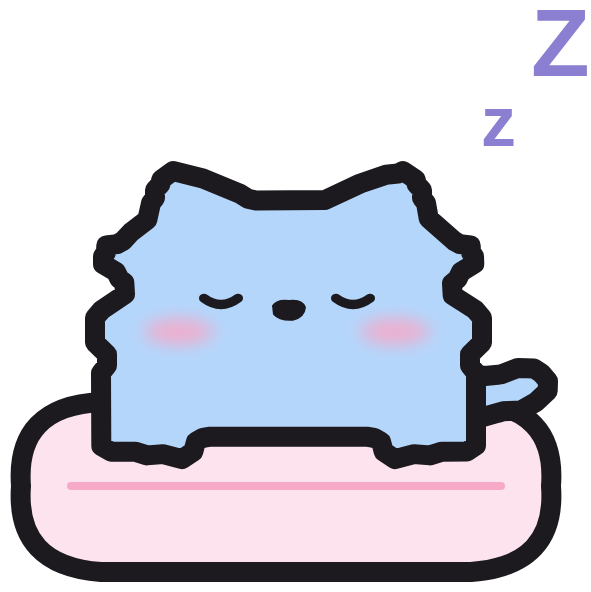
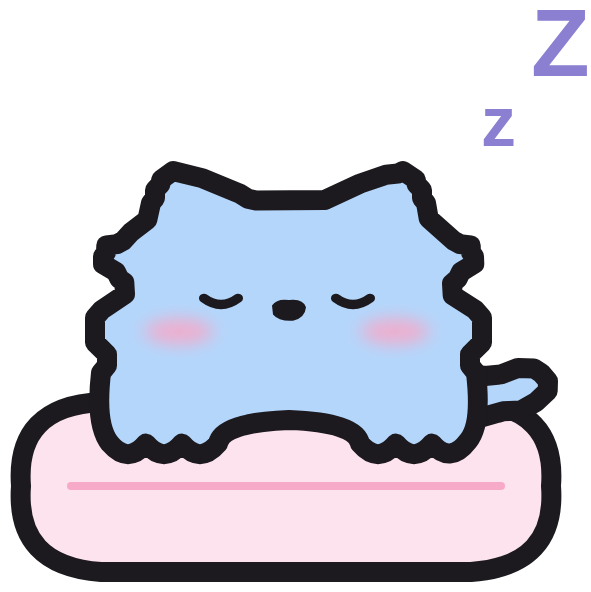
Életcsík 3 szívvel, cicalábak az új képeken
- 3 szív: éhség, alvás, játék. Ha egy igény sokáig nincs kielégítve, a szív
  kiürül, és egy kis ikon mutatja, mi kell. Ha mindhárom tele, konfetti.
- Az idők a beallitasok.js-ben állíthatók (alapból 5, 10 és 4 óra).
- A rajzolt cicák alja kerek lábakra cserélve, három ujjal, köztük ívvel.

Claude-Session: https://claude.ai/code/session_0147rMSUhfh921N6BdCdXTQF

Changed region(s): [[0.1523, 0.6689, 0.8223, 0.7905], [0.7614, 0.6689, 0.7919, 0.6993], [0.1827, 0.6689, 0.2132, 0.6993]]

diff --git a/app.js b/app.js
@@ -63,6 +63,8 @@
         etetes: ["Nyam-nyam! 🐟", "Már nem vagyok éhes! 😋", "Köszi a halat, {nev}! 🐟💖"],
         tele: ["Már nem vagyok éhes! 🐟", "Most nem fér több belém 😅", "Majd később, jó? 🐟"],
         jatek: ["Elkapom! 🧶", "Hihi, megvan! 😹", "Még egyszer! 🧶✨"],
+        jatszani: ["játszunk? 🧶🥺", "unatkozom... 🧶", "{nev}, játszol velem? 🥺🧶", "gombolyag? 👉👈"],
+        tele3: ["Minden szívecske tele! 💖💖💖", "Teli szívvel szeretlek, {nev}! 💖", "Három szív, egy boldog cica! 😻"],
         szeretet: ["Én is szeretlek, {nev}! ❤", "Szeretet-roham! ❤🔥", "Ez kellett! Szeretlek! 💖"],
         elsoSimi: "Simogass meg: húzd rajtam az ujjad! 👆"
     };
@@ -75,6 +77,7 @@
     const KULCS = "kekcica.allapot.v2";
     const ORA = 3600 * 1000;
     let A = betolt();
+    ["utolsoEtetes", "utolsoAlvas", "utolsoJatek"].forEach((m) => { if (!A[m]) A[m] = Date.now(); });
 
     function betolt() {
         try { return Object.assign(alapAllapot(), JSON.parse(localStorage.getItem(KULCS) || "{}")); }
@@ -91,6 +94,8 @@
             hang: true,
             altatva: 0,
             utolsoEtetes: 0,
+            utolsoAlvas: 0,
+            utolsoJatek: 0,
             simiOsszes: 0,
             unnepeltNap: null
         };
@@ -373,14 +378,61 @@
     function alszik() {
         return !A.boldog && (napszak() === "ejjel" || altatvaVan());
     }
-    const EHSEG = 5 * ORA;
+    // ======================= ÉLETCSÍK (3 szív) =======================
+    // Minden szív egy igény: éhség 🐟, alvás 😴, játék 🧶.
+    // Ha egy igény régóta nincs kielégítve, az a szív kiürül.
+    const IG = Object.assign({ ehes: 5, eepy: 10, jatek: 4 }, B.igenyekOraban || {});
+    const IGENYEK = [
+        { kulcs: "ehes", mezo: "utolsoEtetes", ikon: "🐟", ora: IG.ehes },
+        { kulcs: "eepy", mezo: "utolsoAlvas", ikon: "😴", ora: IG.eepy },
+        { kulcs: "jatek", mezo: "utolsoJatek", ikon: "🧶", ora: IG.jatek }
+    ];
+    function igenyHianyzik(ig) {
+        return most() - (A[ig.mezo] || 0) > ig.ora * ORA;
+    }
+    function hianyzoIgenyek() {
+        return IGENYEK.filter(igenyHianyzik);
+    }
     function ehes() {
-        return most() - (A.utolsoEtetes || 0) > EHSEG;
+        return igenyHianyzik(IGENYEK[0]);
+    }
+    function igenySzoveg(ig) {
+        return randomElem(ig.kulcs === "ehes" ? SZ.ehes : ig.kulcs === "eepy" ? SZ.eepy : SZ.jatszani);
     }
     function szomoruSzoveg() {
         if (alszik()) return randomElem(altatvaVan() ? SZ.eepy : SZ.alszik);
-        if (ehes() && Math.random() < 0.5) return randomElem(SZ.ehes);
+        const h = hianyzoIgenyek();
+        if (h.length && Math.random() < 0.7) return igenySzoveg(randomElem(h));
         return randomElem(SZ.szomoru);
+    }
+
+    let elozoTeli = null;
+    function eletFrissit(unnepelhet) {
+        const sor = $("eletcsik");
+        if (!sor) return;
+        let teli = 0;
+        IGENYEK.forEach((ig, i) => {
+            const el = sor.children[i];
+            const ok = !igenyHianyzik(ig);
+            if (ok) teli++;
+            const volt = el.classList.contains("ures");
+            el.classList.toggle("ures", !ok);
+            if (volt && ok) { el.classList.remove("feltolt"); void el.offsetWidth; el.classList.add("feltolt"); }
+        });
+        if (unnepelhet && elozoTeli !== null && elozoTeli < 3 && teli === 3) {
+            setTimeout(() => {
+                konfetti(45);
+                Hang.miau();
+                mond(randomElem(SZ.tele3));
+            }, 900);
+        }
+        elozoTeli = teli;
+    }
+
+    function igenyTeljesul(mezo) {
+        A[mezo] = most();
+        ment();
+        eletFrissit(true);
     }
 
     function szomoruraValt(szoveg, kep) {
@@ -435,6 +487,7 @@
         }
         if (!szoveg && A.boldog && elteltLatogatas > 3 * ORA) szoveg = "Visszajöttél! 🥰";
 
+        if (alszik()) A.utolsoAlvas = t;
         A.utolsoLatogatas = t;
         ment();
 
@@ -447,6 +500,7 @@
         }
         cetliJelzes();
         egyuttFrissit();
+        eletFrissit(false);
     }
 
     function hianyzasSzoveg(ms) {
@@ -470,8 +524,10 @@
             napszakAlkalmaz();
             if (!A.boldog) szomoruraValt();
         }
+        if (alszik()) { A.utolsoAlvas = most(); ment(); }
         cetliJelzes();
         egyuttFrissit();
+        eletFrissit(false);
     }, 60 * 1000);
 
     document.addEventListener("visibilitychange", () => {
@@ -690,6 +746,7 @@
         A.boldog = false;
         A.altatva = most();
         szomoruraValt(randomElem(SZ.eepy), randomElem(alvoKepek));
+        igenyTeljesul("utolsoAlvas");
     });
 
     // Etetés
@@ -723,8 +780,8 @@
             ugrasAnimacio();
             Hang.nyam();
             rezges(15);
-            A.utolsoEtetes = most();
             boldograValt(randomElem(SZ.etetes), K.hal);
+            igenyTeljesul("utolsoEtetes");
             gomb.disabled = false;
         }, 650);
     });
@@ -744,8 +801,19 @@
             for (let i = 0; i < 3; i++) setTimeout(() => szivecske(), i * 90);
             Hang.miau();
             boldograValt(randomElem(SZ.jatek.slice(1)), K.gombolyag);
+            igenyTeljesul("utolsoJatek");
             gomb.disabled = false;
         }, 1500);
+    });
+
+    // Életcsík: koppintásra elmondja, mi kell neki
+    Array.from($("eletcsik").children).forEach((el, i) => {
+        el.addEventListener("click", () => {
+            const ig = IGENYEK[i];
+            ugrasAnimacio();
+            if (igenyHianyzik(ig)) mond(igenySzoveg(ig));
+            else mond({ ehes: "Tele a pocim! 🐟💖", eepy: "Kipihentem magam! 😴💖", jatek: "Már játszottunk! 🧶💖" }[ig.kulcs]);
+        });
     });
 
     // Hang be/ki

diff --git a/style.css b/style.css
@@ -114,6 +114,39 @@ body.napszak-ejjel .widget-container { box-shadow: 0 12px 40px rgba(0, 0, 0, 0.4
     95% { transform: rotate(-6deg); }
 }
 
+/* ---------- Életcsík ---------- */
+.eletcsik { display: flex; gap: 10px; margin: -2px 0 -6px; }
+.elet {
+    position: relative;
+    border: none;
+    background: none;
+    padding: 0;
+    width: 34px;
+    height: 34px;
+    cursor: pointer;
+    -webkit-tap-highlight-color: transparent;
+}
+.elet .sziv { font-size: 26px; line-height: 34px; display: block; transition: filter .4s ease, opacity .4s ease, transform .2s ease; }
+.elet .igeny {
+    position: absolute;
+    right: -6px;
+    bottom: -4px;
+    font-size: 13px;
+    background: #fff;
+    border-radius: 50%;
+    width: 20px;
+    height: 20px;
+    line-height: 20px;
+    box-shadow: 0 1px 4px rgba(0,0,0,.18);
+    transform: scale(0);
+    transition: transform .25s cubic-bezier(.3,1.6,.5,1);
+}
+.elet.ures .sziv { filter: grayscale(1) brightness(1.15); opacity: .35; }
+.elet.ures .igeny { transform: scale(1); animation: kerdez 1.8s ease-in-out infinite; }
+.elet.feltolt .sziv { animation: szivPop .5s ease; }
+@keyframes kerdez { 0%, 100% { transform: scale(1); } 50% { transform: scale(1.18); } }
+@keyframes szivPop { 0% { transform: scale(.6); } 60% { transform: scale(1.35); } 100% { transform: scale(1); } }
+
 /* ---------- Cica ---------- */
 .cica-box {
     width: 100%;

diff --git a/index.html b/index.html
@@ -29,6 +29,12 @@
             </button>
         </div>
 
+        <div class="eletcsik" id="eletcsik" aria-label="Életcsík">
+            <button class="elet" type="button" aria-label="Éhség"><span class="sziv">❤</span><span class="igeny">🐟</span></button>
+            <button class="elet" type="button" aria-label="Alvás"><span class="sziv">❤</span><span class="igeny">😴</span></button>
+            <button class="elet" type="button" aria-label="Játék"><span class="sziv">❤</span><span class="igeny">🧶</span></button>
+        </div>
+
         <div class="cica-box" id="cicaBox">
             <div class="ugro" id="ugro">
                 <div class="lebego">

diff --git a/beallitasok.js b/beallitasok.js
@@ -7,6 +7,9 @@ window.BEALLITASOK = {
     // Mióta vagytok együtt? Formátum: "ÉÉÉÉ-HH-NN"
     kezdoDatum: "2025-04-26",
 
+    // Életcsík (3 szív): ennyi óra után ürül ki egy-egy szív, ha nem kapja meg, ami kell neki.
+    igenyekOraban: { ehes: 5, eepy: 10, jatek: 4 },
+
     // Becenevek: a cica ezek közül választ, amikor megszólítja (a szövegekben {nev}).
     becenevek: ["Cuki", "Hehi", "Szívem"],
 

diff --git a/sw.js b/sw.js
@@ -1,6 +1,6 @@
 // Offline mód: a Kék Cica internet nélkül is működik.
 // Ha új verziót töltesz fel, emeld meg a VERZIO számot.
-const VERZIO = "kekcica-v7";
+const VERZIO = "kekcica-v8";
 const FAJLOK = [
     "./", "index.html", "style.css", "app.js", "beallitasok.js", "manifest.json",
     "apple-touch-icon.png", "ikon-192.png", "ikon-512.png",

diff --git a/forras/uj_cicak_rajzolo.py b/forras/uj_cicak_rajzolo.py
@@ -19,11 +19,55 @@ TEST = A["test"]; FAROK = A["farok"]; MANCS = A["mancs"]
 def vonal(d, fill="none", w=V):
     return f'<path d="{d}" fill="{fill}" stroke="{FEK}" stroke-width="{w}" stroke-linejoin="round" stroke-linecap="round"/>'
 
-def test(farok=True, test_pontok=None):
+ALJ = 410  # ettől lefelé kézzel rajzolt lábak jönnek
+
+def test_ut(sy=1, dy=0):
+    """Az eredeti körvonal (fej, fülek, oldalak) + kézzel rajzolt cicalábak alul."""
+    P = TEST
+    lent = [p[1] >= ALJ for p in P]
+    # forgassuk úgy, hogy a lánc egy "fent" ponttal kezdődjön, ami "lent" után jön
+    k = next(i for i in range(len(P)) if lent[i - 1] and not lent[i])
+    P2 = P[k:] + P[:k]; L2 = lent[k:] + lent[:k]
+    lanc = []
+    for p, l in zip(P2, L2):
+        if l: break
+        lanc.append(p)
+    if lanc[0][0] > lanc[-1][0]:
+        lanc = lanc[::-1]
+    (xl, yl), (xr, yr) = lanc[0], lanc[-1]
+    K = 228; yb = ALJ + 70; tw = 36
+    d = "M" + " L".join(f"{x} {y}" for x, y in lanc)
+    # jobb láb külső íve
+    d += f" Q{xr + 6} {yb - 30} {xr - 8} {yb - 4}"
+    x = xr - 8
+    for i in range(3):  # három ujj (lefelé domborodó ívek)
+        d += f" Q{x - tw / 2} {yb + 34} {x - tw} {yb}"
+        x -= tw
+    # ív a két láb között
+    belso_j = x; belso_b = 2 * K - x
+    d += f" Q{belso_j - 4} {yb - 34} {K} {yb - 38} Q{belso_b + 4} {yb - 34} {belso_b} {yb}"
+    x = belso_b
+    for i in range(3):
+        d += f" Q{x - tw / 2} {yb + 34} {x - tw} {yb}"
+        x -= tw
+    d += f" Q{xl - 6} {yb - 30} {xl} {yl} Z"
+    if sy != 1 or dy:
+        import re
+        szamok = d.replace("M", " M ").replace("L", " L ").replace("Q", " Q ").replace("Z", " Z ").split()
+        ki, xy = [], 0
+        for t in szamok:
+            if t in "MLQZ":
+                ki.append(t); xy = 0; continue
+            v = float(t)
+            ki.append(f"{round(v, 1) if xy % 2 == 0 else round(v * sy + dy, 1)}"); xy += 1
+        d = " ".join(ki)
+    return d
+
+def test(farok=True):
     t = ''
     if farok:
         t += vonal(ut(FAROK), KEK)
-    t += vonal(ut(test_pontok or TEST), KEK)
+    t += vonal(test_ut(), KEK)
     return t
 
 def pir(nagy=False):
@@ -126,13 +170,13 @@ szivek = (f'<path d="M470 120 Q430 84 450 64 Q470 52 476 78 Q484 52 504 62 Q522 
 kepek["boldog_puszi_kuld"] = svg(kar_fel((350, 300), (430, 135), 1) + test() + arc("pont") + mancs_bal() + szivek)
 
 # Párnán alvó: az eredeti test laposra nyomva ("cipó" póz)
-lapos = eltol(TEST, 0, 60, sy=0.62, y0=0)
 parna = (f'<path d="M-40 400 Q-46 320 40 316 L410 316 Q496 320 490 400 Q496 480 410 486 L40 486 Q-46 480 -40 400 Z" fill="{ROZSA}" stroke="{FEK}" stroke-width="{V}"/>'
          f'<path d="M10 400 L440 400" stroke="{PIR}" stroke-width="8" stroke-linecap="round"/>')
+lapos = vonal(ut(eltol(FAROK, 0, 60, sy=0.62)), KEK) + vonal(test_ut(0.62, 60), KEK)
 alvo_arc = (f'<g transform="translate(0 70) scale(1 .9)">' + pir() + szemek("csukott") + orr() + '</g>')
 zzz = ('<text x="420" y="60" font-family="Arial Rounded MT Bold, Arial" font-weight="900" font-size="70" fill="#8a7fd1">z</text>'
        '<text x="470" y="-10" font-family="Arial Rounded MT Bold, Arial" font-weight="900" font-size="96" fill="#8a7fd1">Z</text>')
-kepek["alvo_parna"] = svg(parna + vonal(ut(eltol(FAROK, 0, 60, sy=0.62)), KEK) + vonal(ut(lapos), KEK) + alvo_arc + zzz)
+kepek["alvo_parna"] = svg(parna + lapos + alvo_arc + zzz)
 
 for nev, s in kepek.items():
     open(f"{OUT}/{nev}.svg", "w").write(s)

diff --git a/README.md b/README.md
@@ -6,6 +6,7 @@ Egy kis kék cica a telefon kezdőképernyőjén, aki szeretetre vágyik.
 
 - 👆 **Simogatás:** az ujjadat húzd végig a cicán. Közben dorombol, és ha eleget simogatod, boldog lesz.
 - ❤ **Szeretet**, 😴 **altatás** (eepy, simogatással ébred), 🐟 **etetés** (20 percenként; 5 óra után „éhes”), 🧶 **játék a gombolyaggal**.
+- 💖 **Életcsík (3 szív):** egy-egy szív kiürül, ha a cica éhes (5 óra után), álmos (10 óra után) vagy játszani szeretne (4 óra után). Etetés, altatás és játék után újra megtelik, és ha mindhárom tele, ünnepel. Az időket a `beallitasok.js`-ben lehet állítani.
 - ⏰ **Emlékszik:** egy óra simogatás nélkül elszomorodik. Ha sokáig nem jössz, megmondja, hogy hiányoztál.
 - 💌 **Napi cetli:** minden nap egy új titkos üzenet nyílik ki.
 - 💞 **Együtt X napja:** évfordulón, hónapfordulón és minden 100. napon konfetti jár.
